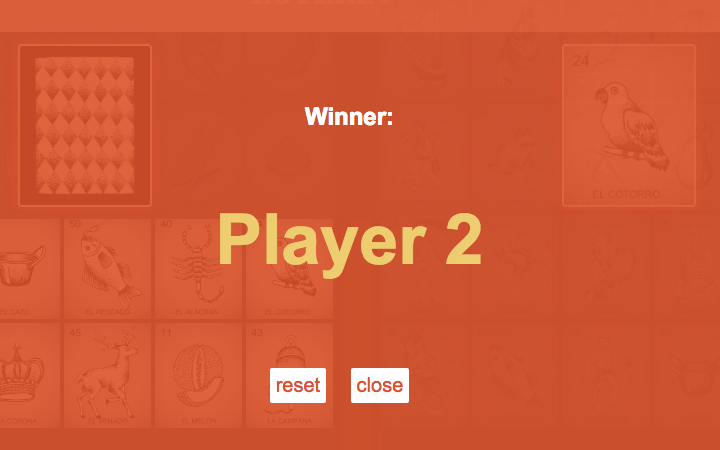
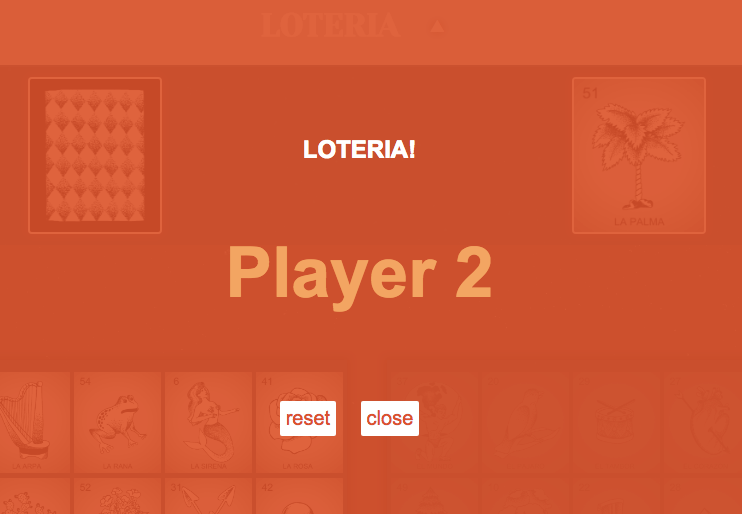
Updated winner modal text and winner modal img for read me

diff --git a/index.html b/index.html
@@ -46,7 +46,7 @@
 
     <div id="modal-winner1">
       <div class="textbox">
-        <h2>Winner:</h2>
+        <h2>LOTERIA!</h2>
         <h2 id= "winner"></h2>
         <button id="reset">reset</button>
         <button id="close3">close</button>

diff --git a/js/app.js b/js/app.js
@@ -211,7 +211,7 @@ console.log($winnerNames);
           continue;
           //will keep looping until false
         } else {
-          console.log('break');
+          // console.log('break');
           break;
         }
       }
